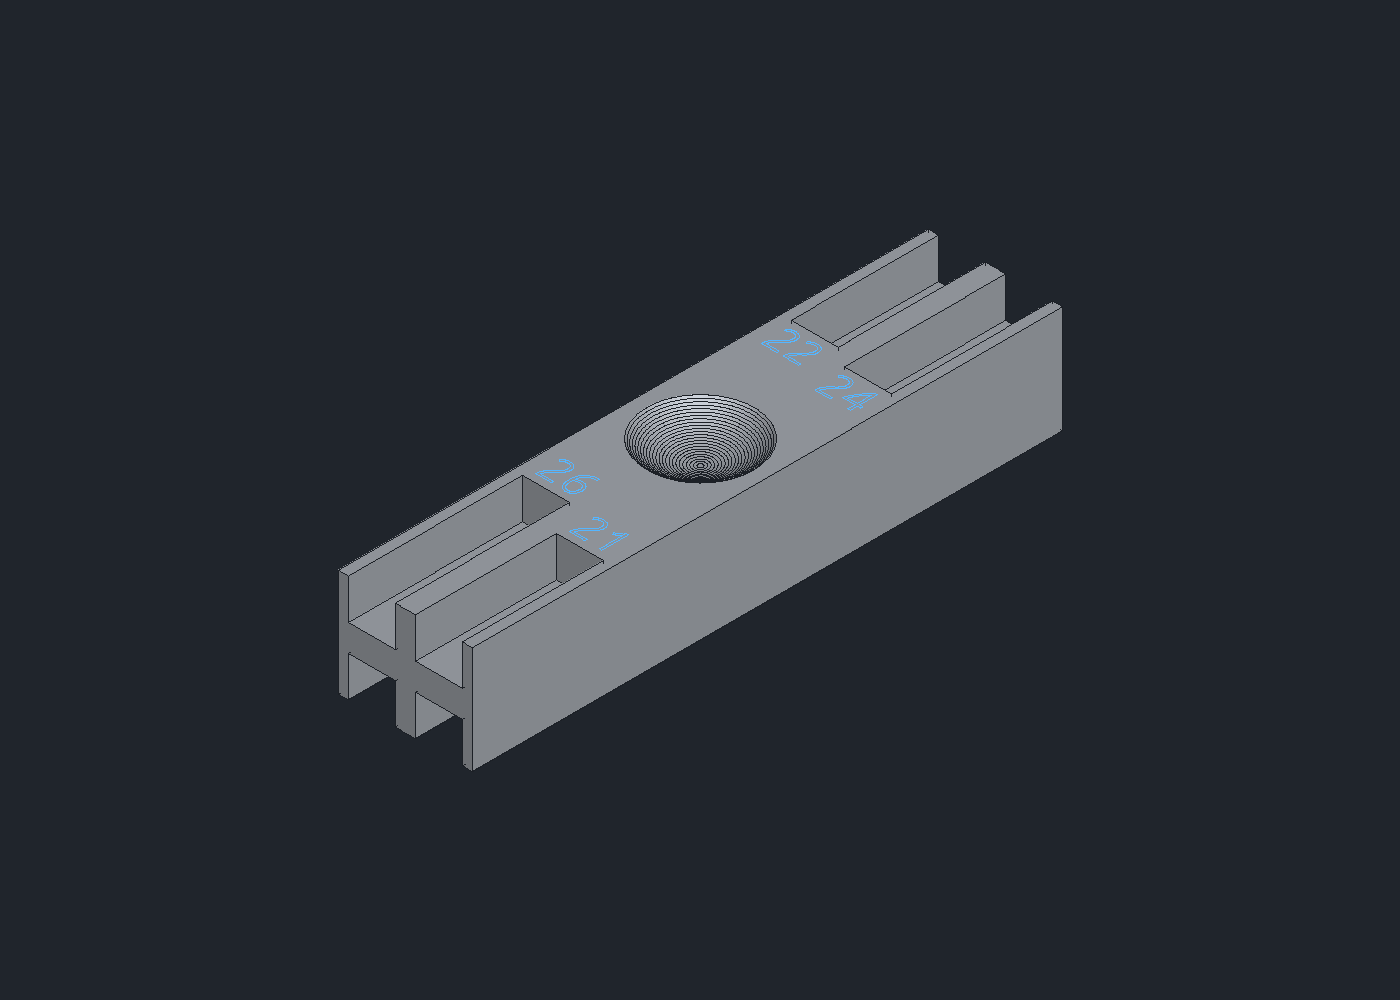
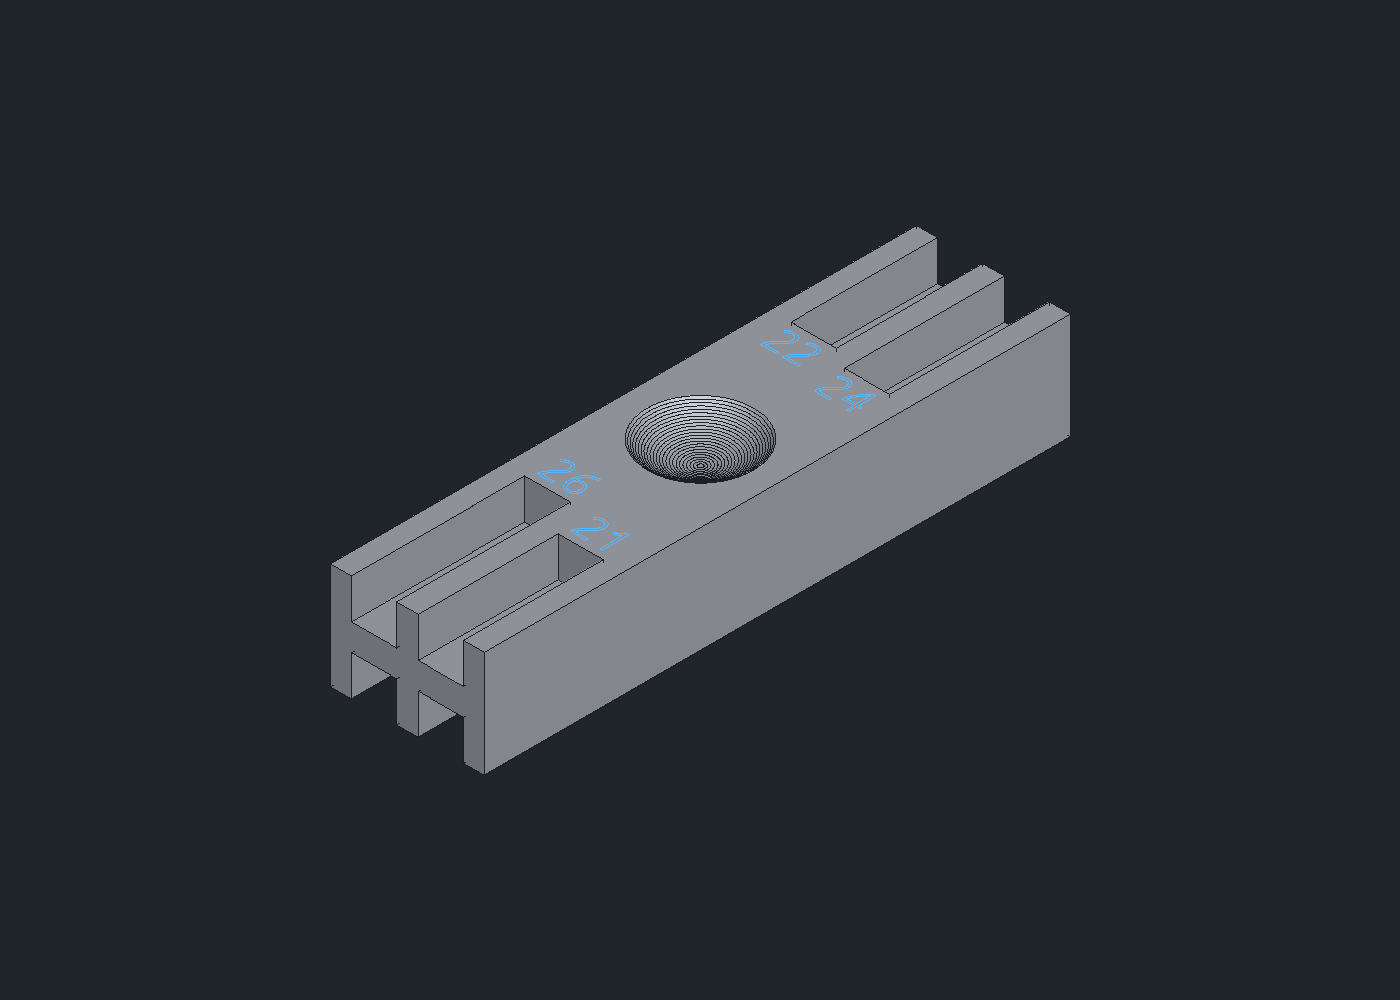
Stick-out gauge: 23 wide (3 mm slot walls), nut seating and vise checks, side passes for the narrower strip

diff --git a/jobs/stickout-gauge/build.py b/jobs/stickout-gauge/build.py
@@ -1,6 +1,6 @@
 """Stick-out setting gauge: the rCAD document and the concept renders. Writes build.json for `rcad run`.
 
-A 20 x 88 x 16 mm 6061 bar with open-ended slots running in from its machined end faces. Slot length =
+A 23 x 88 x 16 mm 6061 bar with open-ended slots running in from its machined end faces. Slot length =
 stick-out: push the gauge's end face up against the ER16 nut face, the tool slides down the slot until its
 tip rests on the slot's end wall, tighten. Top face: 21, 22, 24, 26 and a thumb dish; bottom face: 18, 19,
 20, 23. Numbers engraved beside each slot.
@@ -11,9 +11,9 @@ X across the bar (the vise clamps along X), Y along it, Z up; part bottom at z 0
 """
 import json, math
 
-W, L, H = 20.0, 88.0, 16.0         # gauge
-SW, SD = 7.0, 6.0                  # slot width (6.35 / 6 tools slide in), depth
-SX = 5.0                           # slot centres at x +-5: 1.5 outer walls, 3 web
+W, L, H = 23.0, 88.0, 16.0         # gauge (23 wide: 3 mm outer slot walls, stiff in op 2's jaws)
+SW, SD = 6.8, 6.0                  # slot width (6.35 / 6 tools slide in), depth
+SX = 5.1                           # slot centres at x +-5.1: 3.0 outer walls, 3.4 web
 # (face, end, x, stick-out): end +1 = +Y
 SLOTS = [("top", 1, 5, 24), ("top", 1, -5, 22), ("top", -1, 5, 21), ("top", -1, -5, 26),
          ("bottom", 1, 5, 19), ("bottom", 1, -5, 18), ("bottom", -1, 5, 20), ("bottom", -1, -5, 23)]
@@ -66,11 +66,11 @@ def slot_rect(end, x, s, over=2.0):
 
 def gauge(d, z0=0.0, sharp=False):
     sk = d.sketch([rect(-W / 2, -L / 2, W / 2, L / 2)])
-    d.extrude(sk, H, "add", "Gauge 20 x 88 x 16") if z0 == 0 else None
+    d.extrude(sk, H, "add", "Gauge 23 x 88 x 16") if z0 == 0 else None
     for fc, up, z in (("top", True, H), ("bottom", False, 0.0)):
         items = [slot_rect(e, x, s) for f, e, x, s in SLOTS if f == fc]
         sk = d.sketch(items, face(z, 0, 0, up))
-        d.extrude(sk, SD, "remove", f"{fc.capitalize()} slots 7 wide x 6 deep: " + ", ".join(str(s) for f, e, x, s in SLOTS if f == fc))
+        d.extrude(sk, SD, "remove", f"{fc.capitalize()} slots 6.8 wide x 6 deep: " + ", ".join(str(s) for f, e, x, s in SLOTS if f == fc))
     # thumb dish: a spherical cap, revolved about Z
     r = DISH_D / 2
     R = (r * r + DISH_H * DISH_H) / (2 * DISH_H)
@@ -106,7 +106,7 @@ Z1 = CARRIER                       # gauge bottom in op 1
 sk = d.sketch([rect(-BAR / 2, -BAR_L / 2, BAR / 2, BAR_L / 2)])
 d.extrude(sk, CARRIER + H, "add", "Bar faced to z 19 (25.4 wide, 120 long)")
 sk = d.sketch([rect(-BAR / 2 - 1, -L / 2, -W / 2, L / 2), rect(W / 2, -L / 2, BAR / 2 + 1, L / 2)], face(CARRIER + H, 0, 0))
-d.extrude(sk, CARRIER + H - 5.0, "remove", "Gauge walls down to z 5 (the jaws grip 4.7)")
+d.extrude(sk, CARRIER + H - 5.0, "remove", "Gauge walls (23 wide) down to z 5 (the jaws grip 4.7)")
 sk = d.sketch([rect(-BAR / 2 - 1, L / 2, BAR / 2 + 1, BAR_L / 2 + 1), rect(-BAR / 2 - 1, -BAR_L / 2 - 1, BAR / 2 + 1, -L / 2)], face(CARRIER + H, 0, 0))
 d.extrude(sk, CARRIER + H - LUG_T, "remove", "End lugs down to 8 thick")
 sk = d.sketch([{"type": "circle", "center": [0, s * LUG_Y], "radius": LUG_BORE / 2} for s in (1, -1)], face(LUG_T, 0, LUG_Y))

diff --git a/jobs/stickout-gauge/plan.py b/jobs/stickout-gauge/plan.py
@@ -56,10 +56,13 @@ for d in (4.5, 3.0):
     cut("depth ladder", 1.4, d, 2400, 24000)
 band_wall = x
 # then the facing takes the rest of the band (x -12.7 .. band_wall and what the depth ladder left) to z 19
-# side strip outside the gauge's +X wall (x 10 .. 12.7, below z 19), 12 deep (z 19 -> 7), after the facing
+# side strips outside the gauge's walls (x +-11.5 .. +-12.7, below z 19), 12 deep (z 19 -> 7), after the facing;
+# 0.3 of each strip is left for the wall's finishing passes
 x = BAR / 2
-for w, f, what in ((0.3, 2400, "side, deep"), (0.6, 2500, "side, deep: Jonas's known 0.6 x 12 at 2500"), (0.75, 2400, "side, deep")):
+for w, f, what in ((0.3, 2400, "side +X, deep"), (0.6, 2500, "side +X, deep: Jonas's known 0.6 x 12 at 2500")):
     cut(what, w, 12.0, f, 24000, floor=19.0 - 12.0)
+n += 1
+passes.append((f"C{n}", "side -X, deep: the 0.6 x 12 again, at 2400 (climb along -Y)", 0.6, 12.0, 2400, 24000, -BAR / 2, 19.0 - 12.0))
 
 rows = []
 total = 0.0
@@ -93,8 +96,8 @@ from matplotlib.patches import Rectangle
 
 fig, ax = plt.subplots(figsize=(11, 7.5))
 ax.add_patch(Rectangle((-BAR / 2, 0), BAR, TOP, fc="#e4e7ec", ec="#555", lw=1))
-ax.add_patch(Rectangle((-10, 3), 20, 16, fc="#9aa9ba", ec="#333", lw=1.2))
-ax.text(0, 11, "gauge\n20 x 16", ha="center", va="center", fontsize=11)
+ax.add_patch(Rectangle((-11.5, 3), 23, 16, fc="#9aa9ba", ec="#333", lw=1.2))
+ax.text(0, 11, "gauge\n23 x 16", ha="center", va="center", fontsize=11)
 ax.add_patch(Rectangle((-BAR / 2, 0), BAR, 3, fc="#f3d9a6", ec="#a07a2a", lw=0.8))
 ax.text(0, 1.5, "carrier 3 (op 2 faces it off)", ha="center", va="center", fontsize=8)
 for s in (-1, 1):

diff --git a/jobs/stickout-gauge/README.md b/jobs/stickout-gauge/README.md
@@ -9,7 +9,7 @@ calibration cut plan, the op plan and the bar length, for Jonas to approve befor
 
 ![in use](in-use.png)
 
-A 6061 bar, **20 × 88 × 16 mm**, with open-ended slots that run in from its end faces. **The slot's length
+A 6061 bar, **23 × 88 × 16 mm**, with open-ended slots that run in from its end faces. **The slot's length
 is the stick-out.**
 
 To use it:
@@ -31,14 +31,45 @@ along the bar, and their depth is only 6 mm.
 | Bottom face (−Y end) | 20, 23 |
 
 - The stick-outs we use are 21 (T11), 22 (T1) and 24 (T24); the others are spares.
-- Slots are 7 wide (Ø6 and Ø6.35 tools slide in) and 6 deep, at x ±5. That leaves 1.5 mm outer walls and
-  a 3 mm web between them.
+- Slots are 6.8 wide (Ø6 and Ø6.35 tools slide in) and 6 deep, at x ±5.1. That leaves **3.0 mm outer walls**
+  and a 3.4 mm web between them, with a 4 mm floor between top and bottom slots.
 - The numbers are engraved 4 mm high beside each slot's inner end (the blue sketch text in the renders).
 - A **Ø16 × 3.5 thumb dish** sits in the top's middle, ball-finished, so the ball rules get exercised.
 - Outer edges get a 0.5 chamfer; slot, dish and engraving edges get a 0.2–0.3 edge break.
 
 It also calibrates rcnc's stick-out check. Set a tool to 24 with the gauge, measure it on the setter, and
 use **Tool change → Calibrate stick-out (24)** to give rcnc the nut face height.
+
+## Changes after review (2026-11-17)
+
+- **Width 20 → 23 and slots 7 → 6.8 wide, so the outer walls are 3.0 mm, not 1.5.**
+  - In op 2 the jaws grip the bottom 4.7 mm of the flipped part, which at the ends is these walls.
+  - Treating a wall as a cantilever off the slot floor (6 deep, 3 thick, about 40 N/mm of jaw load), it
+    springs about 7 µm, against about 56 µm for the 1.5 mm wall. That's elastic, and too small to shift or
+    chatter the part.
+  - The wider bar leaves only 1.2 mm of side strip, so the deep side passes are now 0.3 + 0.6 on +X and 0.6
+    on −X (the 0.75 pass is gone). Each side keeps 0.3 for the wall's finishing passes.
+- **How the nut seats.**
+  - The tool's axis is 2.8 mm below the top face (6 deep slot, 6.35 tool). An ER16 nut's face ring (about
+    Ø17–28) therefore lands on the end face below and beside the tool: about 145 mm² for the standard 28 mm
+    nut, about 85 mm² for a 22 mm mini nut.
+  - That patch is off to one side, but it doesn't need to self-centre. The tool lies cradled in a slot
+    milled square to that end face in the same setup, so the slot holds the gauge parallel to the tool. The
+    end face only has to touch, and it touches flat.
+  - Press the gauge straight up; don't rock it on the patch.
+  - Slots deep enough to put the axis at mid-height would need about 11 mm, which leaves no floor between top
+    and bottom slots.
+- **Under the lugs (vise CAD, `vise.step`).** The vise is separate blocks on the table:
+  - jaw blocks 48 × 95.5;
+  - jaw plates 12.7 × 95.5 with the 1.9 mm ledges;
+  - the 37 × 144.5 fixed-jaw centre block;
+  - 61 × 140 end bases.
+
+  Between the jaws a station is open down to the fixture plate, and the 144.5 block sits beside the station,
+  not under it. So under x 0, y ±52 there is nothing for about 20 mm below the ledges, and the bores' 1 mm
+  breakthrough is safe. (The STEP's parts aren't placed consistently in Z, so this comes from the part sizes
+  and layout. One look at the vise confirms it.)
+- **12 mm overhang each end:** fine (Jonas).
 
 ## Stock: N = 120
 
@@ -72,7 +103,7 @@ Three cutters (T24, T11, T1), within the limit of 3.
 
 ### Op 2: flipped about Y
 
-Op 1's top goes down on the parallels. The jaws are re-set to grip the gauge's finished 20 mm walls, and the
+Op 1's top goes down on the parallels. The jaws are re-set to grip the gauge's finished 23 mm walls, and the
 lugs stand up at the ends.
 
 | Tool | Steps |
@@ -108,8 +139,8 @@ See [calibration.md](calibration.md) for the full table. In short:
   chatter show.
 - **Repeat of C3 (C12):** shows drift and how repeatable a reading is.
 - **Depth ladder (C13–C14):** 1.4 at 4.5 and 3 deep. 43 and 29%.
-- **Deep side cuts (C15–C17):** 12 deep: 0.3 at 2400, **your known 0.6 at 2500** and 0.75 at 2400. 30, 56
-  and 66%.
+- **Deep side cuts (C15–C17):** 12 deep: 0.3 at 2400 (30%) and **your known 0.6 at 2500** (56%) on +X, and
+  0.6 at 2400 (54%) on −X.
 
 Nothing is predicted above 72%. Every pass is a 126 mm straight run, about 3 s of steady signal (25+
 analysis windows at 48 kHz). The whole sweep is about 1 min of cutting plus the rapids.

diff --git a/jobs/stickout-gauge/calibration.md b/jobs/stickout-gauge/calibration.md
@@ -21,8 +21,8 @@ T24 (1/4" 3-flute DLC carbide, stick-out 24), climb, straight along +Y over the 
 | C12 | repeat of C3 (drift, repeatability) | 1.4 | 6 | 2400 | 24000 | **57%** (672 W) | 84 | 15.0 µm | 3.1 | x -1.30 .. +0.10, z 19.4 |
 | C13 | depth ladder | 1.4 | 4.5 | 2400 | 24000 | **43%** (504 W) | 63 | 15.0 µm | 3.1 | x -2.70 .. -1.30, z 20.9 |
 | C14 | depth ladder | 1.4 | 3 | 2400 | 24000 | **29%** (336 W) | 42 | 15.0 µm | 3.1 | x -4.10 .. -2.70, z 22.4 |
-| C15 | side, deep | 0.3 | 12 | 2400 | 24000 | **30%** (346 W) | 43 | 7.2 µm | 3.1 | x +12.40 .. +12.70, z 7.0 |
-| C16 | side, deep: Jonas's known 0.6 x 12 at 2500 | 0.6 | 12 | 2500 | 24000 | **56%** (656 W) | 82 | 10.5 µm | 3.0 | x +11.80 .. +12.40, z 7.0 |
-| C17 | side, deep | 0.75 | 12 | 2400 | 24000 | **66%** (774 W) | 97 | 11.2 µm | 3.1 | x +11.05 .. +11.80, z 7.0 |
+| C15 | side +X, deep | 0.3 | 12 | 2400 | 24000 | **30%** (346 W) | 43 | 7.2 µm | 3.1 | x +12.40 .. +12.70, z 7.0 |
+| C16 | side +X, deep: Jonas's known 0.6 x 12 at 2500 | 0.6 | 12 | 2500 | 24000 | **56%** (656 W) | 82 | 10.5 µm | 3.0 | x +11.80 .. +12.40, z 7.0 |
+| C17 | side -X, deep: the 0.6 x 12 again, at 2400 (climb along -Y) | 0.6 | 12 | 2400 | 24000 | **54%** (636 W) | 80 | 10.1 µm | 3.1 | x -12.70 .. -12.10, z 7.0 |
 
 Total steady cutting about 1.1 min (plus rapids back, about the same again).
